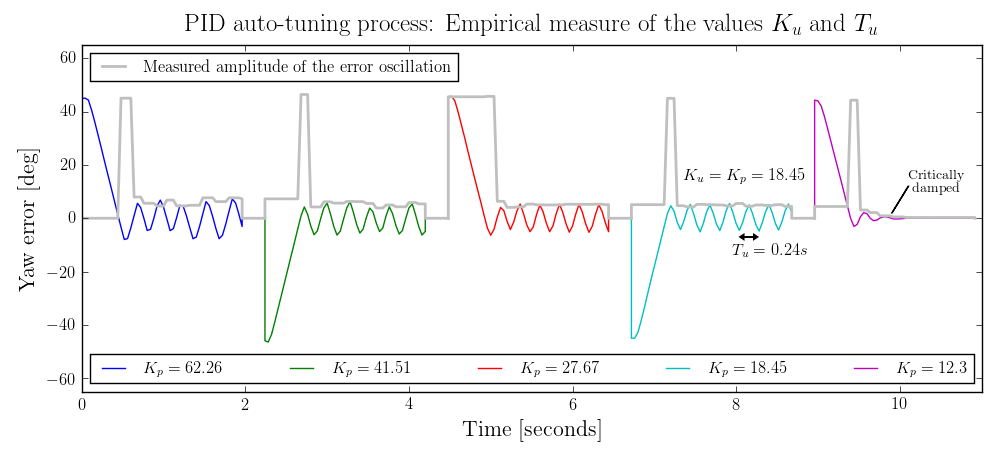
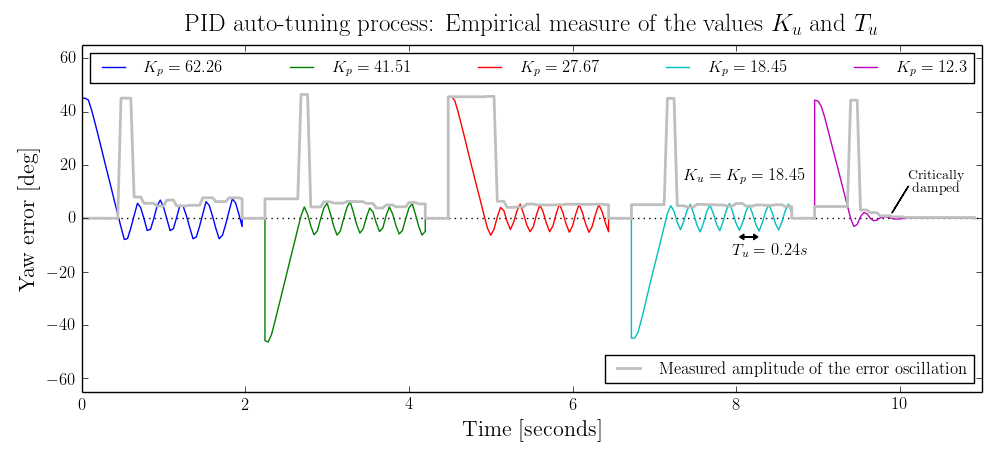
Added angle=0 reference line, re-arranged legend

Changed region(s): [[0.093, 0.7625, 0.992, 0.854], [0.093, 0.0915, 0.992, 0.183]]

diff --git a/Software/PID_calib/plot_PIDautoTune.py b/Software/PID_calib/plot_PIDautoTune.py
@@ -77,12 +77,8 @@ for i in xrange(len(Kps)-1):
 #ax.plot(pid_autoTune2[:,0],pid_autoTune2[:,1:])
 
 f, ax = subplots(1,figsize=(10,4.6))
-for Kp in Kps:
-    ax.plot(times[Kp],err[Kp]*180./np.pi)
 
-for Kp in Kps:
-    peaks, = ax.plot(times[Kp],err_peak[Kp]*180./np.pi,color = '0.75',linewidth=2)
-
+ax.plot([0,11],[0,0],':k')
 
 legends = []
 i = 0
@@ -95,8 +91,17 @@ for Kp in Kps:
     legends.append("$K_p="+str(Kp)+"$")
     i += 1
 
-l1 = ax.legend(legends,labelspacing=0.25,fontsize = 'medium',mode='expand', loc='lower center',ncol=5)#loc='lower right')
-l2 = legend([peaks], ['Measured amplitude of the error oscillation'], loc='upper left',labelspacing=0.25,fontsize = 'medium') # this removes l1 from the axes.
+i = 0
+for Kp in Kps:
+    ax.plot(times[Kp],err[Kp]*180./np.pi, label=legends[i])
+    i += 1
+
+for Kp in Kps:
+    peaks, = ax.plot(times[Kp],err_peak[Kp]*180./np.pi,color = '0.75',linewidth=2)
+
+
+l1 = ax.legend(labelspacing=0.25,fontsize = 'medium',mode='expand', loc='upper center',ncol=5)#loc='lower right')
+l2 = legend([peaks], ['Measured amplitude of the error oscillation'], loc='lower right',labelspacing=0.25,fontsize = 'medium') # this removes l1 from the axes.
 gca().add_artist(l1)
 
 ax.arrow(8.15, -7, -0.06, 0, head_width=2, head_length=0.05, fc='k', ec='k')
